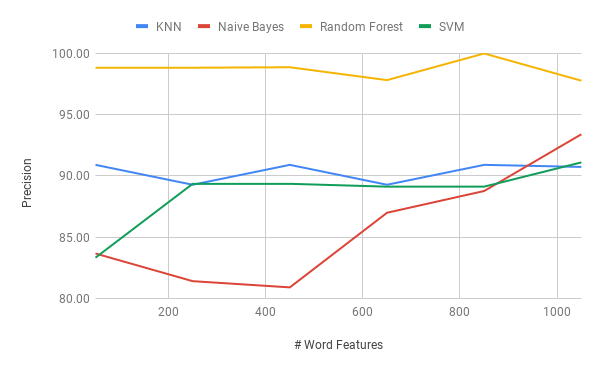
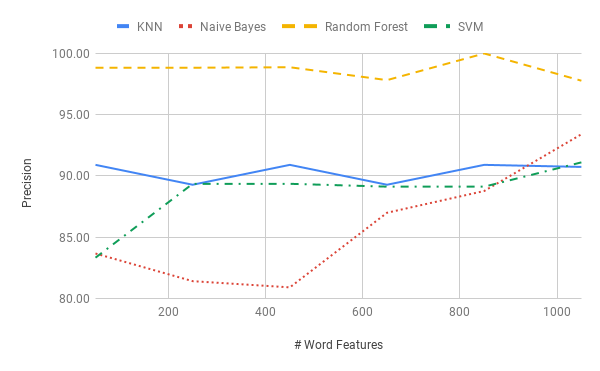
Formatting fixes. Make line graphs pareable in B&W

diff --git a/paper/paper.tex b/paper/paper.tex
@@ -37,7 +37,7 @@
         of other models introduced by other authors. Classifiers will be selected
         from the variety available through the open-source Python module scikit-learn \cite{scikit-learn}.
 
-    \begin{multicols*}{2}
+    \begin{multicols}{2}
         \section{Introduction}
             The classification of spam emails is an important task in today's society,
             as we receive potentially hundreds of them a year which clutter
@@ -158,10 +158,9 @@
             
             \begin{Figure}
                 \centering
-                \includegraphics[scale=0.5]{figures/extract.png}
+                \includegraphics[width=\linewidth]{figures/extract.png}
                 \captionof{figure}{Extraction Process}\label{fig:extrac}
             \end{Figure}
-            
             
             The first step of extraction was
             to find words that meant the most to the corpus which we defined as
@@ -171,9 +170,8 @@
             to the corpus. Next we split the documents into spam and ham before analysis.
             This was done because this algorithm is still based on frequency and the
             ratio of ham to spam was not 1:1. Characteristic words to spam emails such
-            as ``free'' wouldn't show up because they're not prominent in ham emails.
-
-            \begin{minipage}{0.48\columnwidth}
+            as ``free'' wouldn't show up because they're not prominent in ham emails.\\\\
+            \noindent\begin{minipage}{0.48\columnwidth}
                 \includegraphics[width=\textwidth]{figures/spam_wc}
                 \captionof{figure}{Spam}\label{fig:spam_wc}
             \end{minipage}
@@ -241,11 +239,20 @@
             We also examined the effect of tuning the number of feature words chosen by the TF-IDF 
             extractor. The number of feature words chosen for initial analysis was 50, but subsequent 
             tests ranged from 50 to 1050 in steps of 200.
-        \section{Results}
+
+            \section{Results}
             Classifiers were evaluated on precision and recall on the spam class. Overall, precision is
             weighted more heavily than recall in the evaluation because it would likely be more disruptive 
             to classify a ham email as spam than to let in an occasional spam message. Subsequently, the 
             classifiers were also subjected to various feature word counts to observe the effect.
+    \end{multicols}
+        \begin{Figure}
+            \centering
+            \includegraphics[width=\linewidth]{figures/precision_recall.png}
+            \captionof{figure}{Precison and Recall Comparison}
+            \label{fig:precision_recall}
+        \end{Figure}
+    \begin{multicols}{2}
             \subsection{General Precision and Recall}
                 Overall, the classifiers performed well with just features extracted from the email body.
                 Precision and recall comparison can be found in \autoref{fig:precision_recall} with direct 
@@ -266,14 +273,7 @@
                     \captionof{table}{Precison and Recall}
                     \label{tab:precision_recall}
                 \end{Figure}
-
-                \begin{Figure}
-                    \centering
-                    \includegraphics[width=\linewidth]{figures/precision_recall.png}
-                    \captionof{figure}{Precison and Recall Comparison}
-                    \label{fig:precision_recall}
-                \end{Figure}
-
+                
                 While all classifiers had a precision greater than 80\%, the recall clearly divides the 
                 classifiers into two groups. Those with over 80\% recall were Random Forest and Naive Bayes, 
                 while the KNN and SVM both had a recall lower than 50\%. 
@@ -289,27 +289,27 @@
                 content for text analysis, our implementation misses important information in subject lines or 
                 email addresses.
 
+    \end{multicols}
+        \begin{Figure}
+            \centering
+            \includegraphics[width=\linewidth]{figures/recall_wv_effect.png}
+            \captionof{figure}{Effect of the number of feature words on classifier recall}
+            \label{fig:recall_word_effect}
+        \end{Figure}
 
+        \begin{Figure}
+            \centering
+            \includegraphics[width=\linewidth]{figures/precision_wv_effect.png}
+            \captionof{figure}{Effect of the number of feature words on classifier precision}
+            \label{fig:precision_word_effect}
+        \end{Figure}
+    \begin{multicols}{2}
             \subsection{Effect of Number of Feature Words} 
                 When increasing the number of feature words, precision increased dramatically for some classifiers. 
                 Specifically, Naive Bayes and the SVM gained a precision increase of 10\% and 8\% respectively (See \autoref{fig:precision_word_effect}).
                 However, the number of feature words did not seem to effect recall as much as precision (See \autoref{fig:recall_word_effect}).
                 Only one classifier gained over 3\% precision from 50 feature words. Naive Bayes gained 10\% recall when increasing 
                 the number of feature words from 50 to 250. This gain dropped off as the number of feature words increased.
-
-                \begin{Figure}
-                    \centering
-                    \includegraphics[width=\linewidth]{figures/recall_wv_effect.png}
-                    \captionof{figure}{Effect of the number of feature words on classifier recall}
-                    \label{fig:recall_word_effect}
-                \end{Figure}
-                
-                \begin{Figure}
-                    \centering
-                    \includegraphics[width=\linewidth]{figures/precision_wv_effect.png}
-                    \captionof{figure}{Effect of the number of feature words on classifier precision}
-                    \label{fig:precision_word_effect}
-                \end{Figure}
 
                 Interestingly, Naive Bayes dropped in precision by over 2\% 
                 for 250 and 450 feature words before having the largest gain of any classifier. 
@@ -329,5 +329,5 @@
         \nocite{*}
         \bibliography{paper} 
         \bibliographystyle{alpha}
-    \end{multicols*}
+    \end{multicols}
 \end{document}
